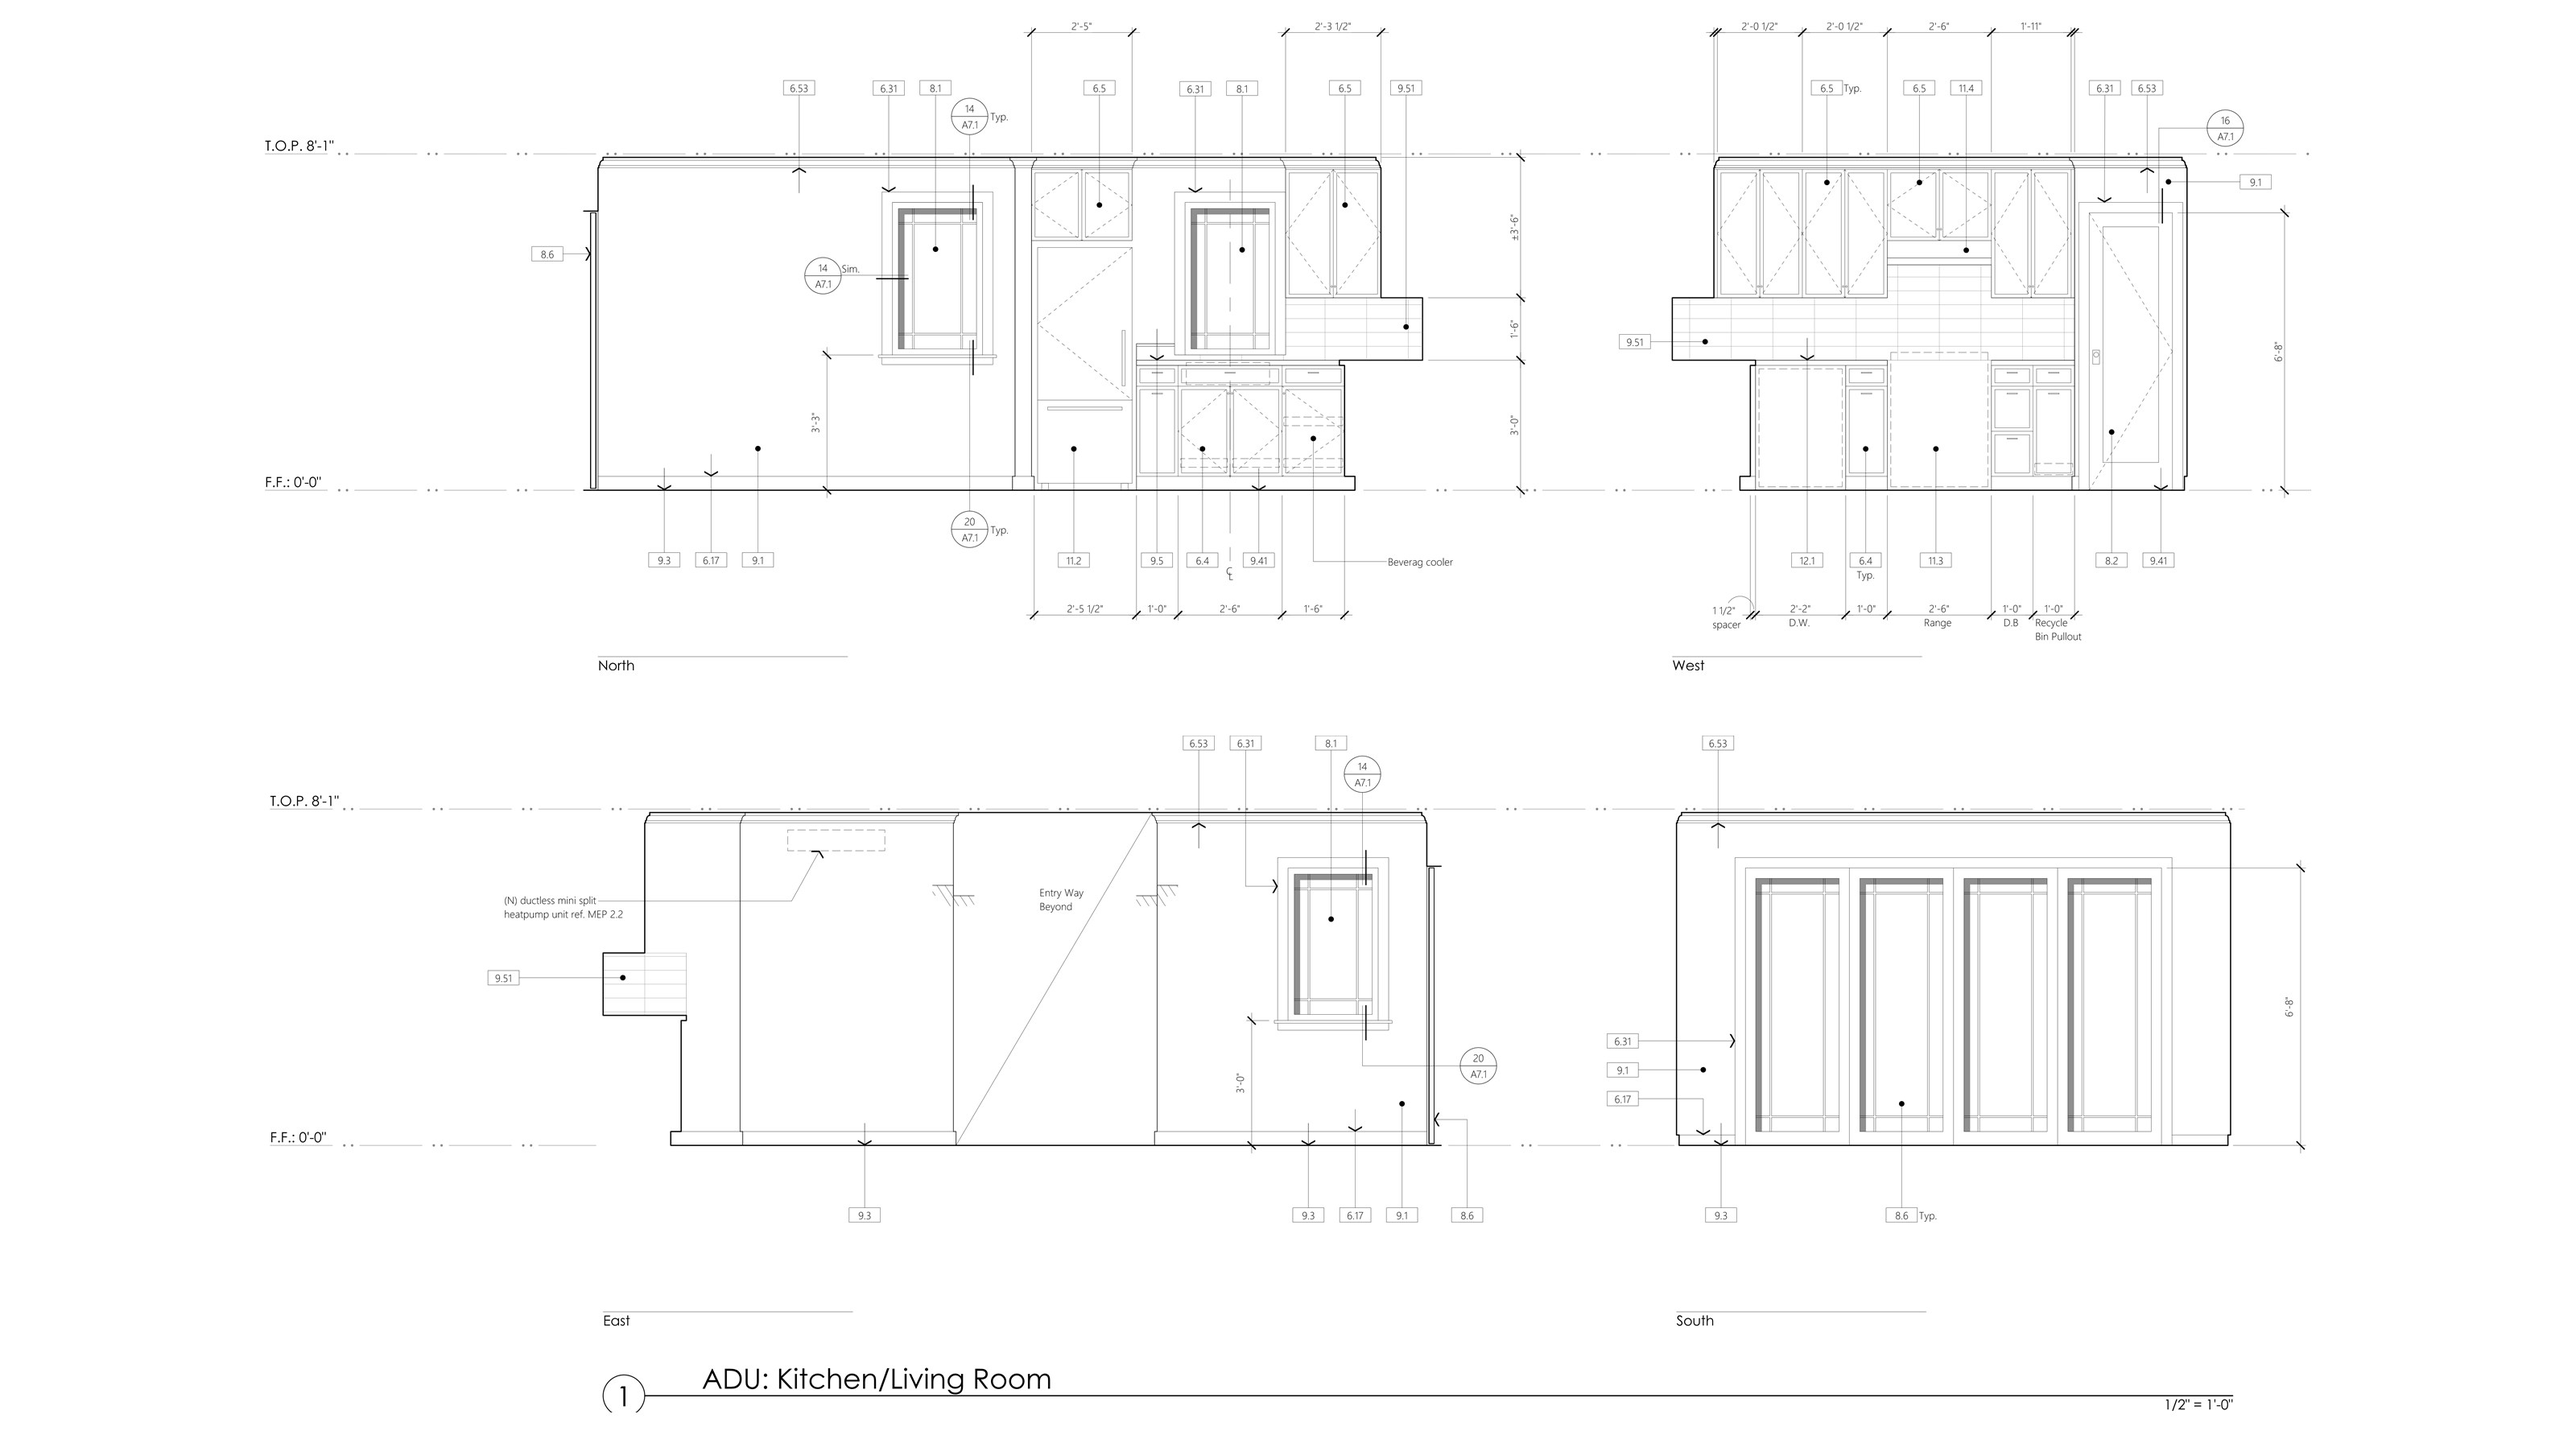
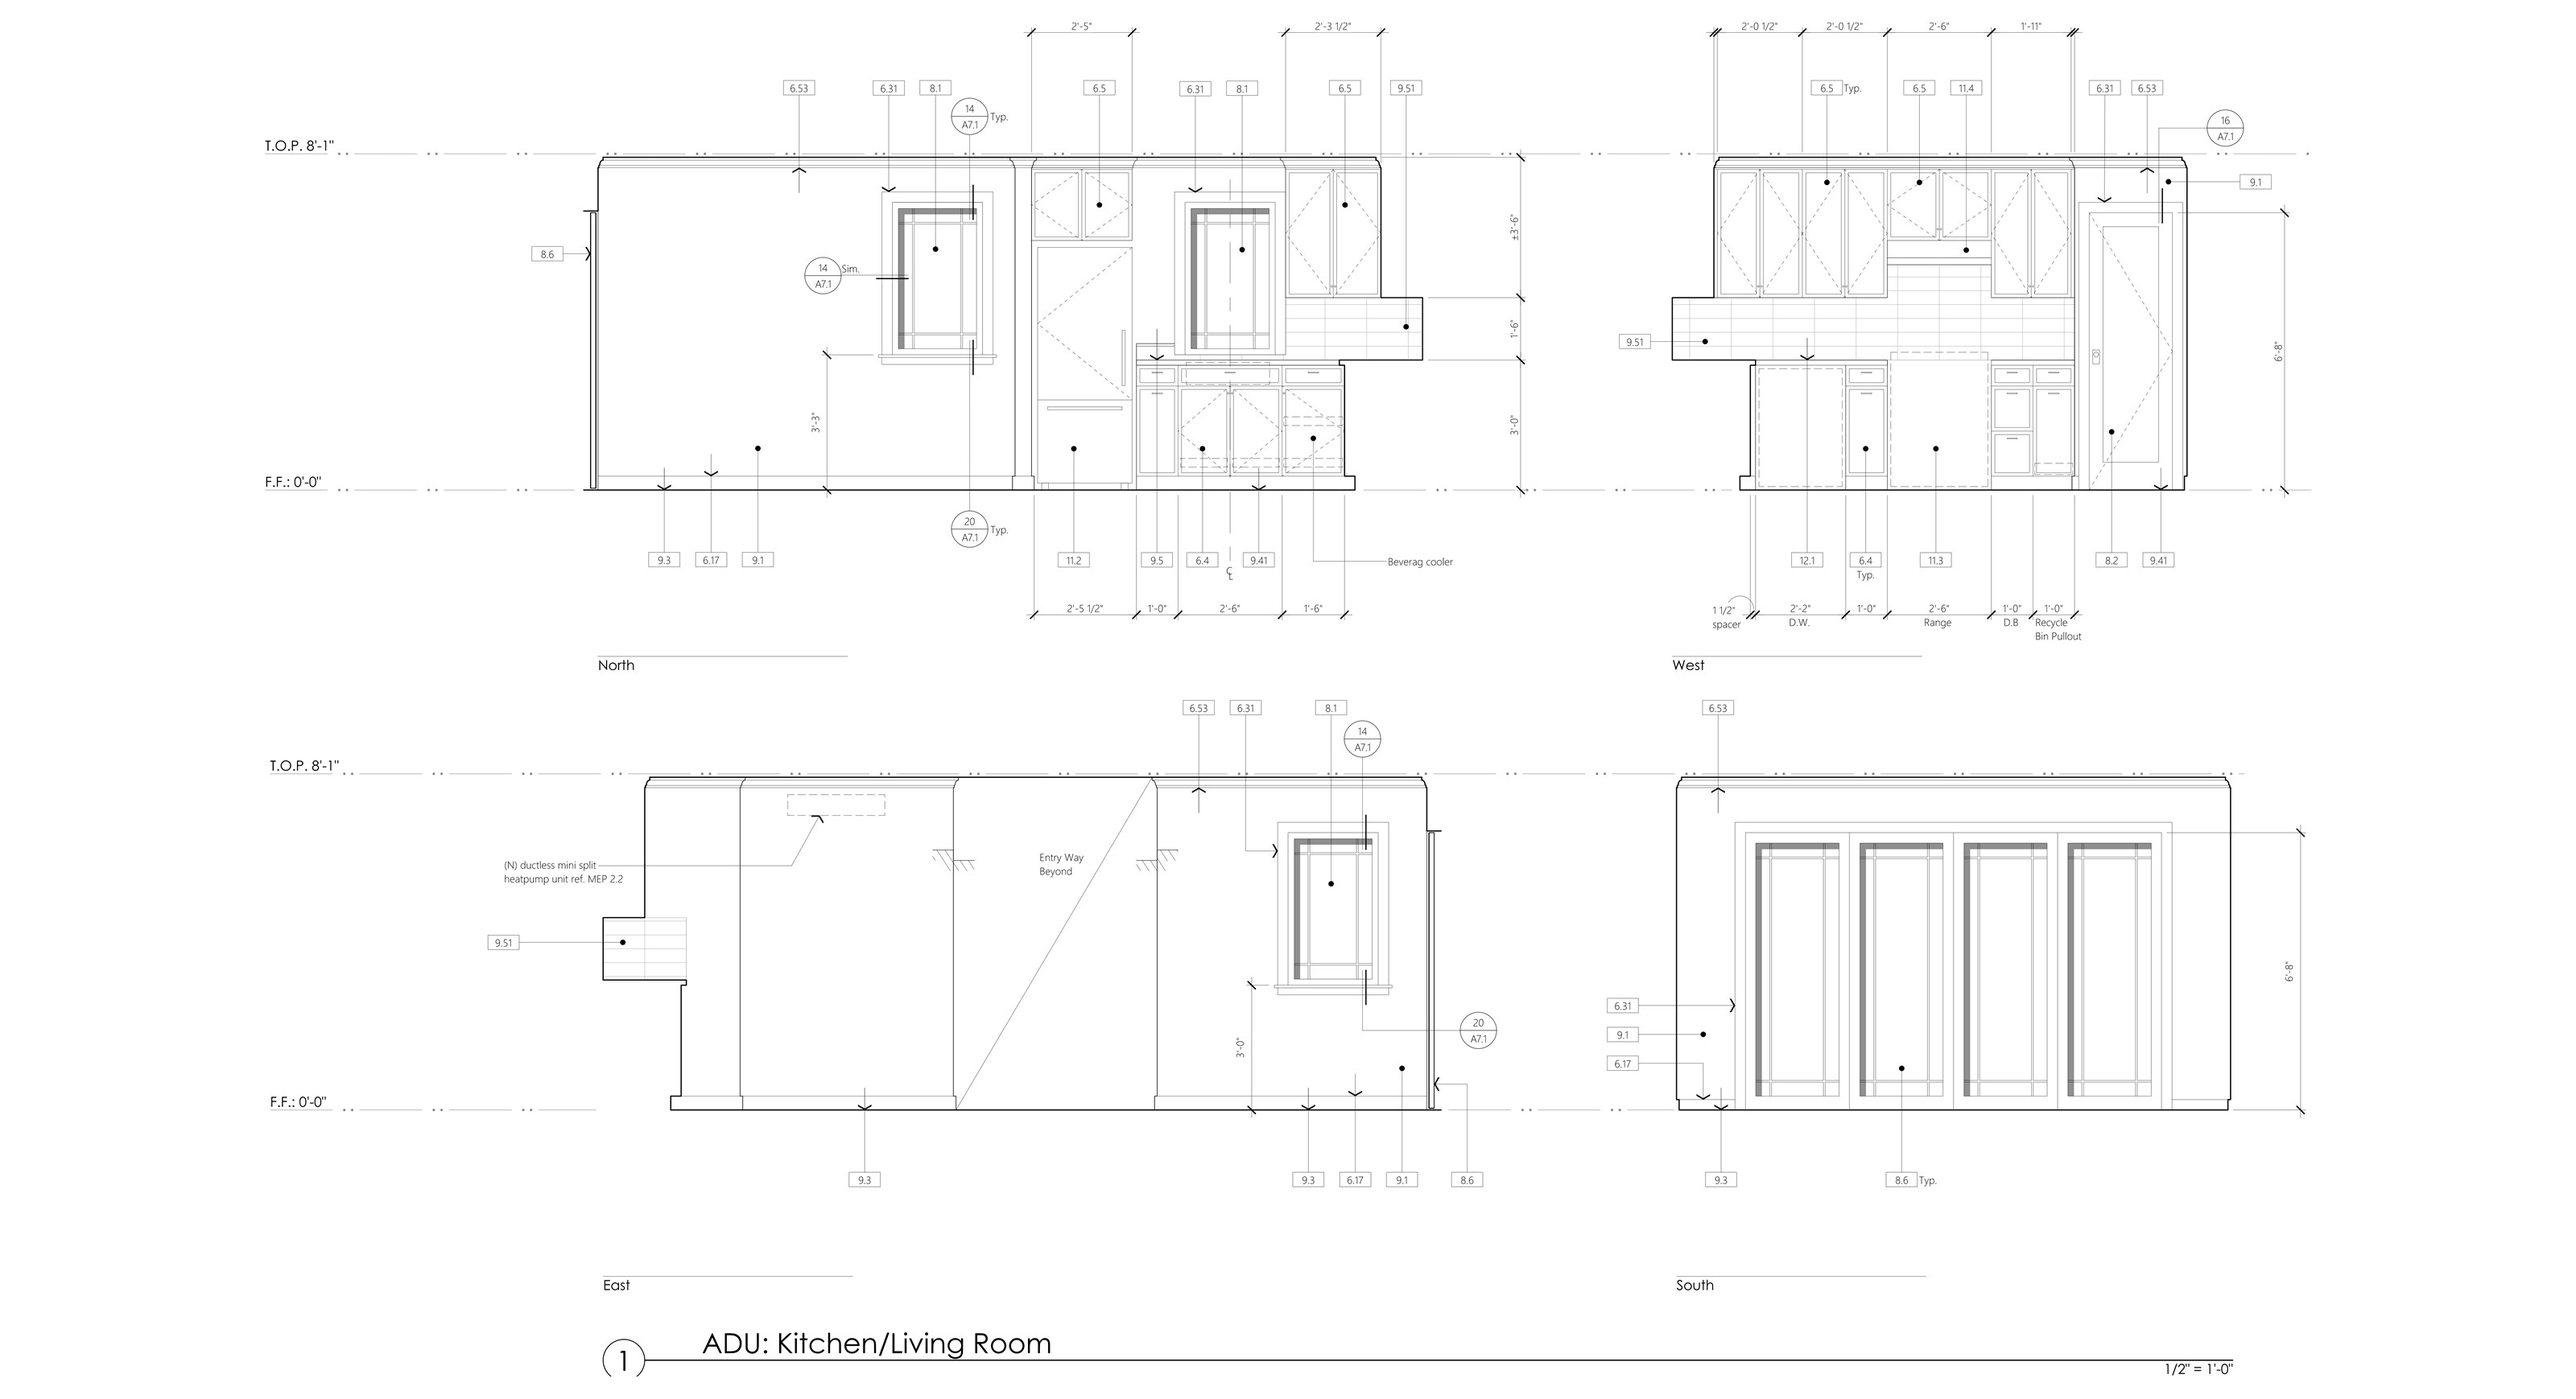
Burlingame ADU: sketch plans placed under Two Story Option 1 at its scale (new place layout), plans and elevations split into carousels, sections carousel on mobile, interiors stacked per room at one scale (powder room dropped), larger per-wall interiors on mobile

diff --git a/js/projects.js b/js/projects.js
@@ -20,6 +20,10 @@
                                                      each cropped to a thin band, stacked
                 { layout: "grid", images: [...] }    two columns (one on mobile)
                 { layout: "matrix", images: [...] }  three columns, on mobile too
+                { layout: "place", images: [{ src, left: "7%", width: "26%" }, ...] }
+                                                     side by side, each at its own offset and width
+                                                     (percent of the column), e.g. to sit under a
+                                                     drawing above
                 { layout: "row", images: [{ src, ratio }, ...] }
                                                      side by side at equal heights (ratio =
                                                      width / height); stacked on mobile
@@ -64,7 +68,7 @@
 */
 
 // Bump whenever an image file is replaced under the same name, so browsers fetch the new one
-const IMAGE_VERSION = 28;
+const IMAGE_VERSION = 29;
 
 const CATEGORIES = [
   { id: "academic", label: "Academic", prefix: "A" },
@@ -571,13 +575,11 @@ const PROJECTS = [
         ],
       },
       {
-        layout: "row", // the two floors from the sketch plan, same crop window so they line up
+        layout: "place", // web: each floor sits under its elevation in Two Story Option 1 above, at that sketch's scale
         hideOnMobile: true,
-        gap: "24px",
-        maxWidth: "530px",
         images: [
-          { src: "assets/img/projects/burlingame-adu/sketch-plan-1.jpg", ratio: 1.0336, caption: "Ground Floor", captionInset: "8.4%" },
-          { src: "assets/img/projects/burlingame-adu/sketch-plan-2.jpg", ratio: 1.0336, caption: "Second Floor", captionInset: "8.4%" },
+          { src: "assets/img/projects/burlingame-adu/sketch-plan-1.jpg", ratio: 1.0336, caption: "Ground Floor", captionInset: "8.9%", left: "7.06%", width: "25.9%" },
+          { src: "assets/img/projects/burlingame-adu/sketch-plan-2.jpg", ratio: 1.0336, caption: "Second Floor", captionInset: "8.9%", left: "27.75%", width: "25.9%" },
         ],
       },
       {
@@ -586,18 +588,21 @@ const PROJECTS = [
         mobileSwipe: true,
         list: true,
         images: [
-          { src: "assets/img/projects/burlingame-adu/sketch-plan-1.jpg", ratio: 1.0336, caption: "Ground Floor", captionInset: "8.4%", tab: "Ground Floor" },
-          { src: "assets/img/projects/burlingame-adu/sketch-plan-2.jpg", ratio: 1.0336, caption: "Second Floor", captionInset: "8.4%", tab: "Second Floor" },
+          { src: "assets/img/projects/burlingame-adu/sketch-plan-1.jpg", ratio: 1.0336, caption: "Ground Floor", captionInset: "8.9%", tab: "Ground Floor" },
+          { src: "assets/img/projects/burlingame-adu/sketch-plan-2.jpg", ratio: 1.0336, caption: "Second Floor", captionInset: "8.9%", tab: "Second Floor" },
         ],
       },
-      // drawings: title block and notes cropped off; address painted out of the east elevation
-      { src: "assets/img/projects/burlingame-adu/plans.jpg" },
-      { src: "assets/img/projects/burlingame-adu/elevations.jpg" },
+      // drawings: title block and notes cropped off, each drawing on its own at one scale per sheet;
+      // address painted out of the east elevation
       {
-        layout: "row", // the sheet's two sections, side by side at the same scale
+        layout: "carousel",
+        mobileSwipe: true,
+        alignBottom: true,
         images: [
-          { src: "assets/img/projects/burlingame-adu/section-1.jpg", ratio: 1.2516 },
-          { src: "assets/img/projects/burlingame-adu/section-2.jpg", ratio: 1.2516 },
+          { src: "assets/img/projects/burlingame-adu/plan-ground.jpg", ratio: 1.0892, tab: "Ground Floor" },
+          { src: "assets/img/projects/burlingame-adu/plan-second.jpg", ratio: 1.0833, tab: "Second Floor" },
+          { src: "assets/img/projects/burlingame-adu/plan-ceiling.jpg", ratio: 1.1494, tab: "Ceiling" },
+          { src: "assets/img/projects/burlingame-adu/plan-roof.jpg", ratio: 1.1307, tab: "Roof" },
         ],
       },
       {
@@ -605,16 +610,65 @@ const PROJECTS = [
         list: true,
         mobileSwipe: true,
         alignBottom: true,
+        images: [
+          { src: "assets/img/projects/burlingame-adu/elev-south.jpg", ratio: 1.3992, tab: "South" },
+          { src: "assets/img/projects/burlingame-adu/elev-east.jpg", ratio: 1.3974, tab: "East" },
+          { src: "assets/img/projects/burlingame-adu/elev-north.jpg", ratio: 1.3974, tab: "North" },
+          { src: "assets/img/projects/burlingame-adu/elev-west.jpg", ratio: 1.3974, tab: "West" },
+        ],
+      },
+      {
+        layout: "row", // the sheet's two sections, side by side at the same scale
+        hideOnMobile: true,
+        images: [
+          { src: "assets/img/projects/burlingame-adu/section-1.jpg", ratio: 1.2516 },
+          { src: "assets/img/projects/burlingame-adu/section-2.jpg", ratio: 1.2516 },
+        ],
+      },
+      {
+        layout: "carousel",
+        mobileOnly: true,
+        mobileSwipe: true,
+        list: true,
+        images: [
+          { src: "assets/img/projects/burlingame-adu/section-1.jpg", ratio: 1.2516, tab: "Section 1" },
+          { src: "assets/img/projects/burlingame-adu/section-2.jpg", ratio: 1.2516, tab: "Section 2" },
+        ],
+      },
+      {
+        layout: "carousel", // web: a room's drawing lines stacked, all slides at the same scale
+        hideOnMobile: true,
+        list: true,
+        alignBottom: true,
         arrowsOut: true,
         images: [
-          // one drawing line per slide, all at the same scale (narrower lines padded to the widest)
-          { src: "assets/img/projects/burlingame-adu/int-kitchen.jpg", ratio: 1.7947, tab: "Kitchen / Living" },
-          { src: "assets/img/projects/burlingame-adu/int-ba.jpg", ratio: 3.2888, tab: "Bath" },
-          { src: "assets/img/projects/burlingame-adu/int-bedroom.jpg", ratio: 3.1904, tab: "Bedroom" },
+          { src: "assets/img/projects/burlingame-adu/int-kitchen.jpg", ratio: 1.8401, tab: "Kitchen / Living" },
+          { src: "assets/img/projects/burlingame-adu/int-bath-bedroom.jpg", ratio: 1.6352, tab: "Bath / Bedroom" },
           { src: "assets/img/projects/burlingame-adu/int-stair.jpg", ratio: 2.502, tab: "Stair" },
-          { src: "assets/img/projects/burlingame-adu/int-powder.jpg", ratio: 3.5477, tab: "Powder Room" },
-          { src: "assets/img/projects/burlingame-adu/int-ba1.jpg", ratio: 3.3898, tab: "Main House BA#1" },
-          { src: "assets/img/projects/burlingame-adu/int-ba2.jpg", ratio: 3.467, tab: "Main House BA#2" },
+          { src: "assets/img/projects/burlingame-adu/int-main-house.jpg", ratio: 1.7307, tab: "Main House Baths" },
+        ],
+      },
+      {
+        layout: "carousel", // mobile: one or two walls per slide so they read larger, all at the same scale
+        mobileOnly: true,
+        mobileSwipe: true,
+        list: true,
+        images: [
+          { src: "assets/img/projects/burlingame-adu/m-kitchen-n.jpg", ratio: 2.0921, caption: "Kitchen / Living: North", tab: "Kitchen / Living: North" },
+          { src: "assets/img/projects/burlingame-adu/m-kitchen-w.jpg", ratio: 2.0921, caption: "Kitchen / Living: West", tab: "Kitchen / Living: West" },
+          { src: "assets/img/projects/burlingame-adu/m-kitchen-e.jpg", ratio: 2.2857, caption: "Kitchen / Living: East", tab: "Kitchen / Living: East" },
+          { src: "assets/img/projects/burlingame-adu/m-kitchen-s.jpg", ratio: 2.2857, caption: "Kitchen / Living: South", tab: "Kitchen / Living: South" },
+          { src: "assets/img/projects/burlingame-adu/m-bath-1.jpg", ratio: 2.0986, caption: "Bath: North and East", tab: "Bath: North and East" },
+          { src: "assets/img/projects/burlingame-adu/m-bath-2.jpg", ratio: 2.0964, caption: "Bath: South and West", tab: "Bath: South and West" },
+          { src: "assets/img/projects/burlingame-adu/m-bed-s.jpg", ratio: 2.0243, caption: "Bedroom: South", tab: "Bedroom: South" },
+          { src: "assets/img/projects/burlingame-adu/m-bed-e.jpg", ratio: 2.0243, caption: "Bedroom: East", tab: "Bedroom: East" },
+          { src: "assets/img/projects/burlingame-adu/m-bed-w.jpg", ratio: 2.0243, caption: "Bedroom: West", tab: "Bedroom: West" },
+          { src: "assets/img/projects/burlingame-adu/m-stair-n.jpg", ratio: 1.5349, caption: "Stair: North", tab: "Stair: North" },
+          { src: "assets/img/projects/burlingame-adu/m-stair-e.jpg", ratio: 1.5349, caption: "Stair: East", tab: "Stair: East" },
+          { src: "assets/img/projects/burlingame-adu/m-ba1-1.jpg", ratio: 2.1692, caption: "Main House BA#1: North and East", tab: "Main House BA#1: North and East" },
+          { src: "assets/img/projects/burlingame-adu/m-ba1-2.jpg", ratio: 2.2497, caption: "Main House BA#1: South and West", tab: "Main House BA#1: South and West" },
+          { src: "assets/img/projects/burlingame-adu/m-ba2-1.jpg", ratio: 2.2247, caption: "Main House BA#2: North and East", tab: "Main House BA#2: North and East" },
+          { src: "assets/img/projects/burlingame-adu/m-ba2-2.jpg", ratio: 2.2247, caption: "Main House BA#2: South and West", tab: "Main House BA#2: South and West" },
         ],
       },
     ],

diff --git a/js/main.js b/js/main.js
@@ -315,6 +315,9 @@
     // Images inside a group. "aside": the first image on the left, the rest stacked in a
     // column on the right; the column's ratio is set so both sides end up the same height.
     const groupHTML = (block) => {
+      // "place": each image at its own offset and width (percent of the column)
+      if (block.layout === "place")
+        return block.images.map((img) => `<div class="place-item" style="margin-left:${img.left || 0};width:${img.width}">${image(img, true)}</div>`).join("");
       if (block.layout !== "aside") return block.images.map((img) => image(img, true)).join("");
       const [first, ...rest] = block.images;
       const colRatio = 1 / rest.reduce((sum, img) => sum + 1 / img.ratio, 0);
@@ -353,7 +356,7 @@
       </figure>`;
     };
 
-    // An entry is a single image, or a group: { layout: "stack" | "bands" | "grid" | "matrix" | "row" | "aside" | "carousel", images }
+    // An entry is a single image, or a group: { layout: "stack" | "bands" | "grid" | "matrix" | "row" | "aside" | "place" | "carousel", images }
     const gallery = p.images
       .map((block) => {
         if (block.layout === "carousel") return carouselHTML(block);

diff --git a/project.html b/project.html
@@ -29,7 +29,7 @@
   <link rel="icon" href="assets/img/favicon.svg" type="image/svg+xml">
   <link rel="icon" href="assets/img/favicon-32.png" sizes="32x32" type="image/png">
   <link rel="apple-touch-icon" href="assets/img/apple-touch-icon.png">
-  <link rel="stylesheet" href="css/style.css?v=78">
+  <link rel="stylesheet" href="css/style.css?v=79">
 </head>
 <body data-page="project">
 
@@ -52,7 +52,7 @@
     <article class="project" id="project"></article>
   </main>
 
-  <script src="js/projects.js?v=78"></script>
-  <script src="js/main.js?v=78"></script>
+  <script src="js/projects.js?v=79"></script>
+  <script src="js/main.js?v=79"></script>
 </body>
 </html>

diff --git a/index.html b/index.html
@@ -34,7 +34,7 @@
   <link rel="preconnect" href="https://fonts.googleapis.com">
   <link rel="preconnect" href="https://fonts.gstatic.com" crossorigin>
   <link rel="stylesheet" href="https://fonts.googleapis.com/css2?family=Inter:wght@400;700&display=swap">
-  <link rel="stylesheet" href="css/style.css?v=78">
+  <link rel="stylesheet" href="css/style.css?v=79">
 </head>
 <body data-page="index">
 
@@ -161,7 +161,7 @@
     </div>
   </main>
 
-  <script src="js/projects.js?v=78"></script>
-  <script src="js/main.js?v=78"></script>
+  <script src="js/projects.js?v=79"></script>
+  <script src="js/main.js?v=79"></script>
 </body>
 </html>

diff --git a/css/style.css b/css/style.css
@@ -650,6 +650,16 @@ html.menu-entering .layout > :not(.menu) {
   max-width: var(--group-max, none);
 }
 
+/* place: images at set offsets and widths, tops aligned */
+.gallery-place .gallery-group {
+  display: flex;
+  align-items: flex-start;
+}
+
+.place-item {
+  flex: none;
+}
+
 .gallery-row .gallery-item,
 .gallery-aside .gallery-group > .gallery-item,
 .gallery-col {
